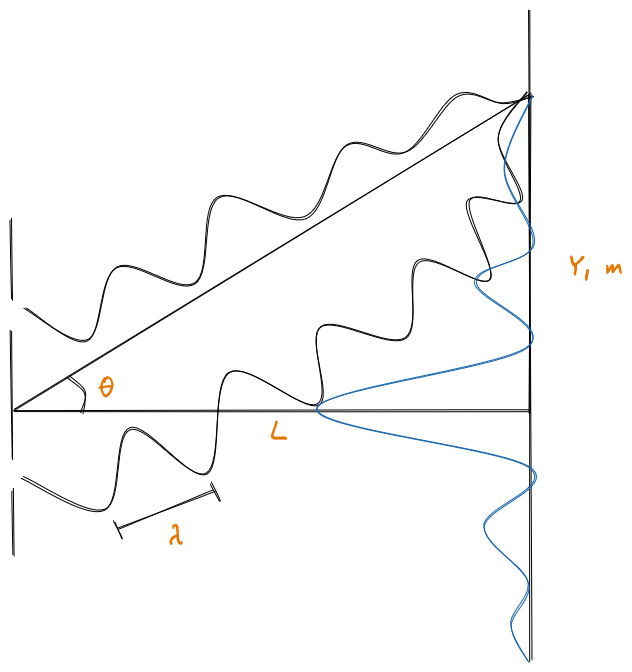
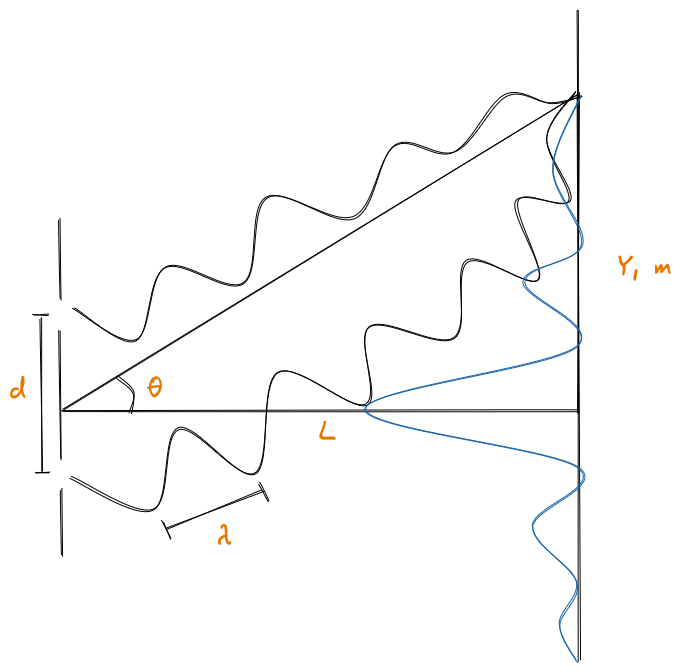
done?

diff --git a/index.tex b/index.tex
@@ -54,14 +54,14 @@ urlcolor=cyan,
 % \usepackage{indentfirst}
 
 \begin{document}
-\title{Young's Experiment Lab Conclusion (ADD UNCERTAINTY TO GRAPH)}
+\title{Young's Experiment Lab Conclusion}
 \author{by Shengdong Li}
 \date{28 September 2021}
 \maketitle
 
 \section{Research Question}
 
-What happened in Young's Double-Slit Experiment?
+How did Young calculate the wavelength of light in his Double-Slit Experiment?
 
 \section{Purpose}
 
@@ -82,8 +82,14 @@ In this lab, all variables were kept constant.
 
 \begin{figure}[H]
 	\centering
-	\includegraphics[scale=0.7]{sketch.png}
-	\caption{Sketch of double-slit diffraction}
+\includegraphics[scale=0.57]{diagram.png}
+\caption{Sketch of experiment setup}
+\end{figure}
+
+\begin{figure}[H]
+\centering
+\includegraphics[scale=0.48]{sketch.png}
+\caption{Diagram of simplified double-slit diffraction}
 \end{figure}
 
 \section{Materials List}
@@ -119,7 +125,7 @@ In this lab, all variables were kept constant.
 	\def\arraystretch{1.5}
 	\resizebox{\textwidth}{!}{\begin{tabular}{lllll}
 			\hline
-			Distance slit-slit (m) & Distance n-n (m) & Order & Distance light-screen (m) \\
+Distance slit-slit (m) & Distance n-n (m) \(\pm 0.005\) & Order & Distance light-screen (m) \(\pm 0.005\)\\
 			\hline
 			0.000176               & 0.08             & 3     & 4.14
 		\end{tabular}}
@@ -175,7 +181,7 @@ And since \(\tan\theta=\theta\), and \(\tan\) is opposite over adjacent in the f
 	\def\arraystretch{1.5}
 	\resizebox{\textwidth}{!}{\begin{tabular}{lllll}
 			\hline
-			Distance slit-slit (m) & Distance n-n (m) & Order & Distance light-screen (m) & Wavelength of Light (m) \\
+Distance slit-slit (m) & Distance n-n (m) \(\pm 0.005\) & Order & Distance light-screen (m) \(\pm 0.005\) & Wavelength of Light (m) \(\pm 0.06\) \\
 			\hline
 			0.000176               & 0.08             & 3     & 4.14                      & \(5.67 \cdot 10^{-7}\)
 		\end{tabular}}
@@ -192,34 +198,32 @@ And since \(\tan\theta=\theta\), and \(\tan\) is opposite over adjacent in the f
 \end{itemize}
 
 \section{Conclusion}
-The distance the car gravity car travels is constant as the mass of the car increases. This is because, while the line of best fit has a slightly positive relationship, its slope is very low at \(0.04\) and the points fluctuate around and have high uncertainty. This is further supported by the fact that one gradient line has a slope of \(0\). At a mass of \(116g\), the car traveled an average distance of around \(171.5cm\), but from masses \(145-165\) the distance the car traveled was slightly less than the beginning, an average of \(166cm\). Only at a mass of \(174g\) did the car begin to have a slightly increased average distance of \(172cm\), but this was almost the same distance traveled as the very first trial. This goes against the original hypothesis that the car would travel less distance as mass increases. This nondifference can be explained by Newton's First and Second Laws of motion.
 
-Upon closer inspection of the forces at work, it can be seen that there are two distinct phases of forces acting on the gravity car: when the car goes down the ramp, and when the car is traveling on the ground after it has accelerated on the ramp. On the ramp, there is a greater force pushing on the gravity car with more Scrabble pieces, since the \(x\) component of the weight force is dependent on mass \(w_x = w\sin(\theta)\). But the thing is, even though there is a bigger force acting on the bigger car, the smaller car and the bigger car both move down the ramp at the same speed. Newton's Second law of motion states acceleration is proportional to force but inversely proportional to mass, such that that \(a=\frac{F}{m}\). When the weight component is substituted into the equation, in the resulting equation the masses cancel.
-\begin{align*}
-	\sum F_x  & = w\sin(\theta)            \\
-	ma        & = mg\sin(\theta)           \\
-	a         & = \frac{mg\sin(\theta)}{m} \\
-	\Aboxed{a & =g\sin(\theta)}
-\end{align*}
-A greater force or push does not equal greater acceleration in this case. Both heavy and light cars reach the bottom of the ramp at the same speed.
+After going through the experiment, I now understand how Young used diffraction by creating two double slits to calculate the wavelength of light. By using basic geometry and what he knew about the wavelength of light, he measured the distance from the screen to the light, the distance between two slits, the order of fringes, as well as the distance from the center to the outer fringe to calculate the wavelength of light.
 
-Then, when the gravity car is moving on level ground, the only horizontal force is kinetic friction pulling the car back.
-\begin{align*}
-	\sum F_{x} & =-F_{k}            \\
-	           & =-u_{k}\cdot F_{N} \\
-	           & =-u_{k}\cdot mg
-\end{align*}
-In this case, a heavier car would result in a greater kinetic friction force backward. But if Newton's second law is applied again it can be seen that the decrease in acceleration of both cars is equal once again
-\begin{align*}
-	\sum F_{x} & =ma             \\
-	ma         & =-u_{k}\cdot mg \\
-	\Aboxed{a  & =-u_{k}\cdot g}
-\end{align*}
-It all goes back to Newton's first law of motion, that heavier objects have more inertia and so require more forces to both stop and move.
+I also confirmed this by seeing that the distance between the two slits affected the wavelength of light greatly. When I looked through the narrower slit, the distance distance between light and dark fringes got wider. This makes sense, as looking at the derived equation
+$$
+	\lambda      =\frac{dy}{mL}                                                                           \\
+$$
+\(d\) and \(y\) seem to have an inversely proportional relationship as they are both on the numerator of the fraciton.
 
 \section{Evaluation of Strengths and Weaknesses}
-Because this was an experiment done at home due to quarantine, there were many limitations and possible sources of error in the experiment. One such source of error was the horizontal positioning of the gravity car on the ramp. While the height of the car on the ramp was part of the control variables, the width of the ramp made it much harder to position the car correctly horizontally every time. While by itself this might not have been much of an issue, the other problem was that the floorboards were uneven. Sometimes, if the car was positioned a couple of centimeters to the left it would bump into more crevices in the floorboards, resulting in a lower distance traveled. While the material of the floor should've stayed the same, it ultimately could've caused the large uncertainty and fluctuations in the data table. Another source of error was that the axle of the car was partially broken, so it would sometimes veer slightly to the right. This would've resulted in some of the measured distances traveled being lower than they should've been.
+This experiment had a huge number of flaws. According to literature, the actual wavelength of red light is around $700$ nanometers, which is around \(7\cdot10^{-7}\) meters. This meant that the answer our group measured was off by around $1.33\cdot 10^{-7}$ meters, an error of around \(19\%\)!
+
+The biggest cause of this would probably be the measure of the number of light and dark fringes. Because the lens of the slits might have been touched by fingers and thus become oily, it was extremely difficult to count the warped lines of the dark and light fringes. When we recorded our order of $m=3$, it was more like $m=$ 2--4, with some extra error on where the paper slips were put. This makes sense, as working back from the actual wavelength of \(\lambda=7\cdot10^{-7} m\), and setting $m$ as an unknown like so:
+
+\begin{align*}
+7\cdot10^{-7}\ m & =\frac{\left(0.000176\ m\right)\left(0.04\ m\right)}{\left(4.14\ m\right)\left(M\right)}                \\
+M                & =\frac{\left(0.000176\ m\right)\left(0.04\ m\right)}{\left(4.14\ m\right)\left(7\cdot10^{-7}\ m\right)} \\
+M                & =\boxed{2.43}
+\end{align*}
+
+We get the order $M=2.43$, which isn't so far off from what one would expect looking into a very distorted double-slit lens.
 
 \section{Improvements}
-Many things could be done in the future to address the car issues. One is to buy a new toy car that isn't broken, so it doesn't veer to the right. To address the issue of the horizontal alignment of the car causing the uneven material of the wooden floorboards to have an impact on the garage floor could've been used. Another thing that could be done is to mark a specific spot on the ramp to always position the car correctly on the ramp.
+The best way to prevent greasy oil stains from distorting lens would just be to not use alens at all. The whole experiment in itself was not actually measuring the diffraction patterns on the screen, as a result of diffraction of the light source, but measuring the patterns on the cornea of the naked eye, and having the light shine on the screen of the eye through the double slit.
+
+Using a finer and steadier light like the lazer pointer through a double slit would make it so that the experiment is actually measuring the real diffracted pattern of the light on a screen, and it would be much easier to read as the person measuring would be able to walk closer and more closely align the paper slips to the diffraction pattern. In other words, everyone would be able to see the diffraction pattern, at whatever distance they choose, rather than the one getting their eyeballs blasted by the diffraction pattern.
+
+Another source of improvement could possibly be to dim the room even further, or move to an area with less light pollution, as sometimes with many experiments going on in close proximity, the lights clashed and it was harder to make out the outlines of the dark and light fringes and thus was harder to determine the number and order of the fringes.
 \end{document}
